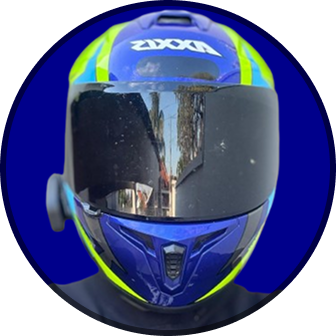
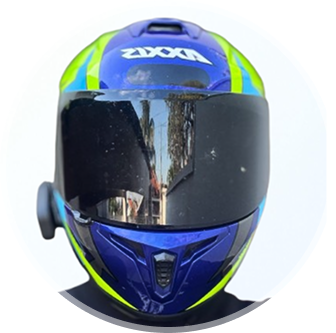
adjust to imagens

diff --git a/style.css b/style.css
@@ -6,7 +6,7 @@
 
 :root {
   --text-color: white;
-  --bg-url: url(./assets/bg-mobile.jpg);
+  --bg-url: url(./assets/bg-mobile-dark.jpg);
   --stroke-color: rgba(255, 255, 255, 0.5);
   --surface-color: rgba(255, 255, 255, 0.05);
   --surface-color-houver: rgba(0, 0, 0, 0.2);
@@ -124,7 +124,7 @@ ul li a {
   text-decoration: none;
   font-weight: 500;
 
-  transition: background 0.3s;
+  transition: background 0.5s;
 }
 
 ul li a:hover {
@@ -149,7 +149,7 @@ ul li a:hover {
   padding: 16px;
 
   border-radius: 50%;
-  transition: background 0.2s;
+  transition: background 0.4s;
 }
 
 #social-links a:hover {
@@ -164,7 +164,7 @@ footer {
 
 @media (min-width: 700px) {
   :root {
-    --bg-url: url(./assets/bg-desktop.jpg);
+    --bg-url: url(./assets/bg-desktop-dark.jpg);
   }
 
   .light {

diff --git a/index.html b/index.html
@@ -18,7 +18,7 @@
     <div id="container">
       <div id="profile">
         <img
-          src="./assets/avatar.png"
+          src="./assets/avatar-dark.png"
           alt="Foto de Felipe Duarte de óculos com capacete, com a viseira levantada e de camisa preta "
         />
         <p>@felipee_duarte_</p>
